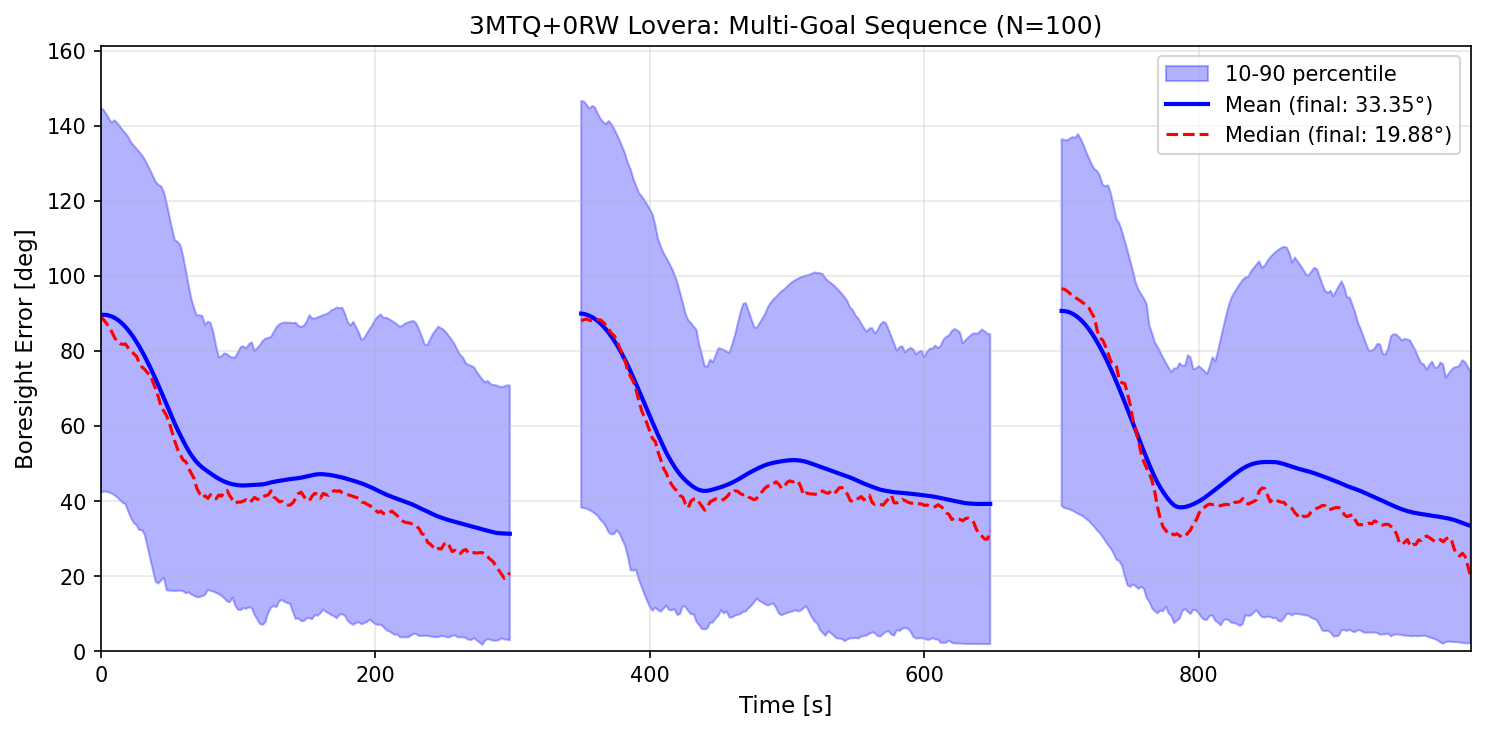
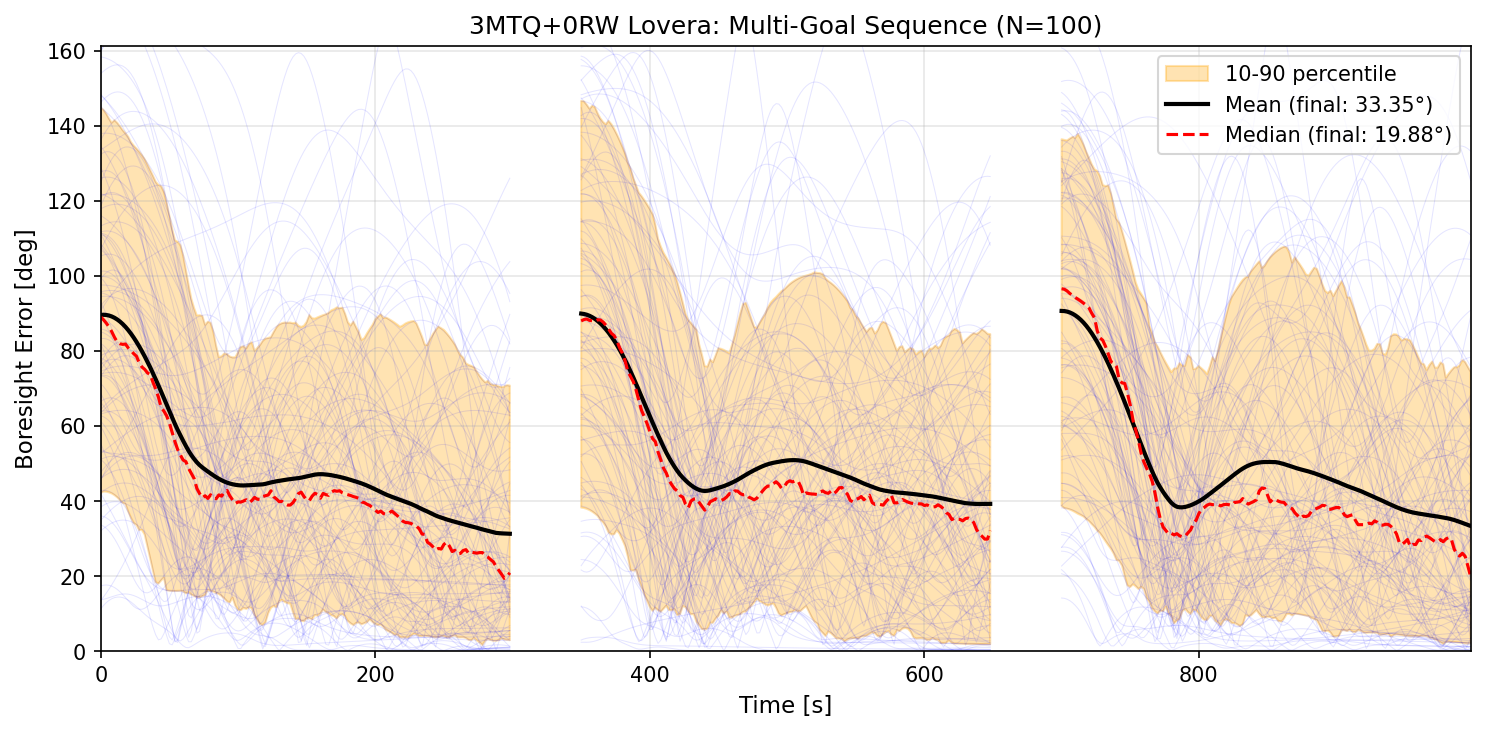
Add trajectories to stats timeseries plot, reduce planner workers to 2

diff --git a/papers/Planner/plot_all_mc_results.py b/papers/Planner/plot_all_mc_results.py
@@ -153,11 +153,15 @@ def plot_error_timeseries(time: np.ndarray, errors: np.ndarray,
     
     plt.close()
     
-    # Figure 2: Stats version with mean/median/percentiles
+    # Figure 2: Stats version with trajectories + mean/median/percentiles
     fig, ax = plt.subplots(figsize=(10, 5))
     
-    ax.fill_between(time, p10, p90, alpha=0.3, color='blue', label='10-90 percentile')
-    ax.plot(time, mean, 'b-', linewidth=2, label=f'Mean (final: {np.nanmean(errors[:,-1]):.2f}°)')
+    # Plot individual runs with low opacity first
+    for i in range(min(len(errors), 100)):
+        ax.plot(time, errors[i], 'b-', alpha=0.1, linewidth=0.5)
+    
+    ax.fill_between(time, p10, p90, alpha=0.3, color='orange', label='10-90 percentile')
+    ax.plot(time, mean, 'k-', linewidth=2, label=f'Mean (final: {np.nanmean(errors[:,-1]):.2f}°)')
     ax.plot(time, median, 'r--', linewidth=1.5, label=f'Median (final: {np.nanmedian(errors[:,-1]):.2f}°)')
     
     ax.set_xlabel("Time [s]", fontsize=11)

diff --git a/papers/Planner/generate_mc_3mtq+1rw_plan_reduced.py b/papers/Planner/generate_mc_3mtq+1rw_plan_reduced.py
@@ -176,7 +176,7 @@ if __name__ == "__main__":
             sim_func=run_single_sim,
             config_generator=generate_mc_config,
             num_runs=NUM_RUNS,
-            max_workers=4  # Planner is memory-intensive
+            max_workers=2  # Planner is memory-intensive
         )
         full_results = runner.run()
         

diff --git a/papers/Planner/generate_mc_3mtq+0rw_plan_full.py b/papers/Planner/generate_mc_3mtq+0rw_plan_full.py
@@ -167,7 +167,7 @@ if __name__ == "__main__":
             sim_func=run_single_sim,
             config_generator=generate_mc_config,
             num_runs=NUM_RUNS,
-            max_workers=4
+            max_workers=2
         )
         full_results = runner.run()
         

diff --git a/papers/Planner/generate_mc_3mtq+0rw_plan_multi.py b/papers/Planner/generate_mc_3mtq+0rw_plan_multi.py
@@ -174,7 +174,7 @@ if __name__ == "__main__":
             sim_func=run_single_sim,
             config_generator=generate_mc_config,
             num_runs=NUM_RUNS,
-            max_workers=4
+            max_workers=2
         )
         full_results = runner.run()
         

diff --git a/papers/Planner/generate_mc_3mtq+0rw_plan_reduced.py b/papers/Planner/generate_mc_3mtq+0rw_plan_reduced.py
@@ -167,7 +167,7 @@ if __name__ == "__main__":
             sim_func=run_single_sim,
             config_generator=generate_mc_config,
             num_runs=NUM_RUNS,
-            max_workers=4
+            max_workers=2
         )
         full_results = runner.run()
         

diff --git a/papers/Planner/generate_mc_3mtq+1rw_plan_full.py b/papers/Planner/generate_mc_3mtq+1rw_plan_full.py
@@ -174,7 +174,7 @@ if __name__ == "__main__":
             sim_func=run_single_sim,
             config_generator=generate_mc_config,
             num_runs=NUM_RUNS,
-            max_workers=4
+            max_workers=2
         )
         full_results = runner.run()
         

diff --git a/papers/Planner/generate_mc_3mtq+1rw_plan_multi.py b/papers/Planner/generate_mc_3mtq+1rw_plan_multi.py
@@ -181,7 +181,7 @@ if __name__ == "__main__":
             sim_func=run_single_sim,
             config_generator=generate_mc_config,
             num_runs=NUM_RUNS,
-            max_workers=4
+            max_workers=2
         )
         full_results = runner.run()
         
